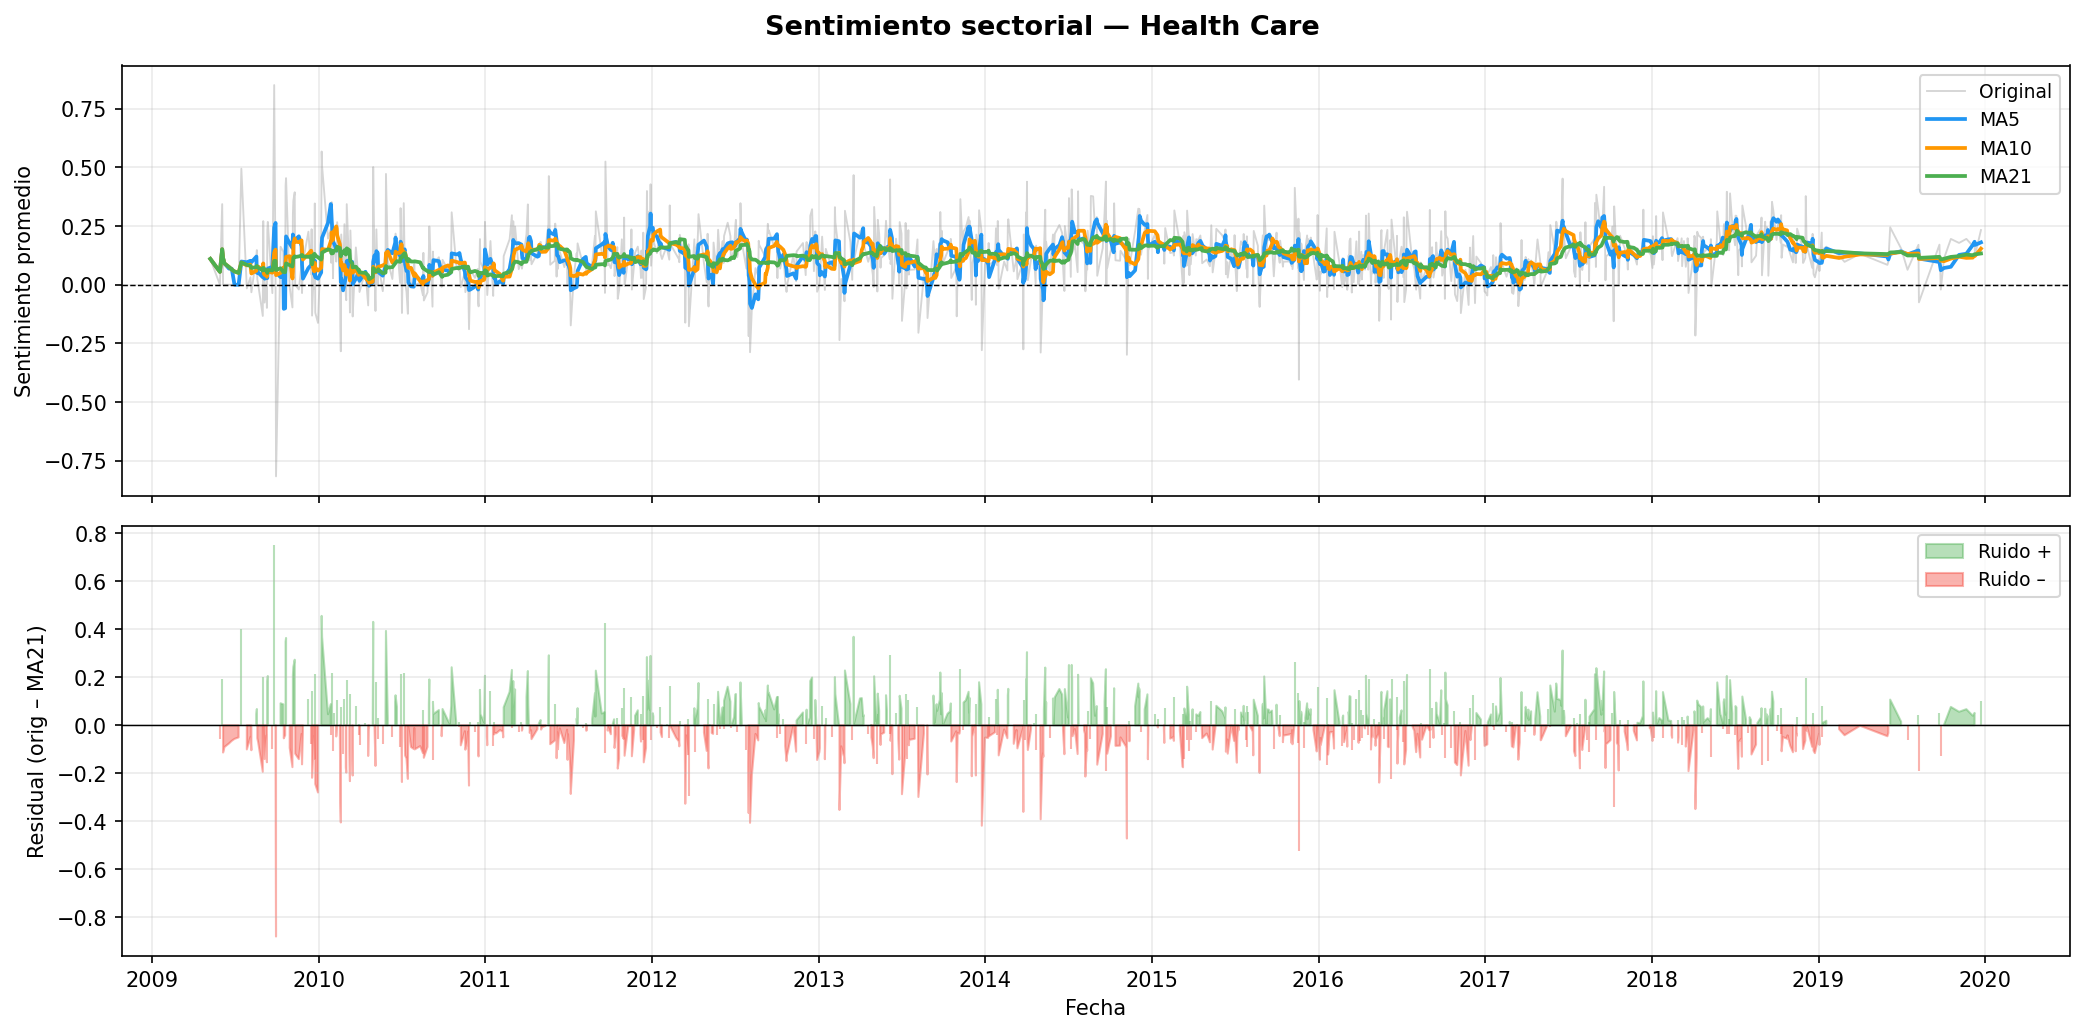
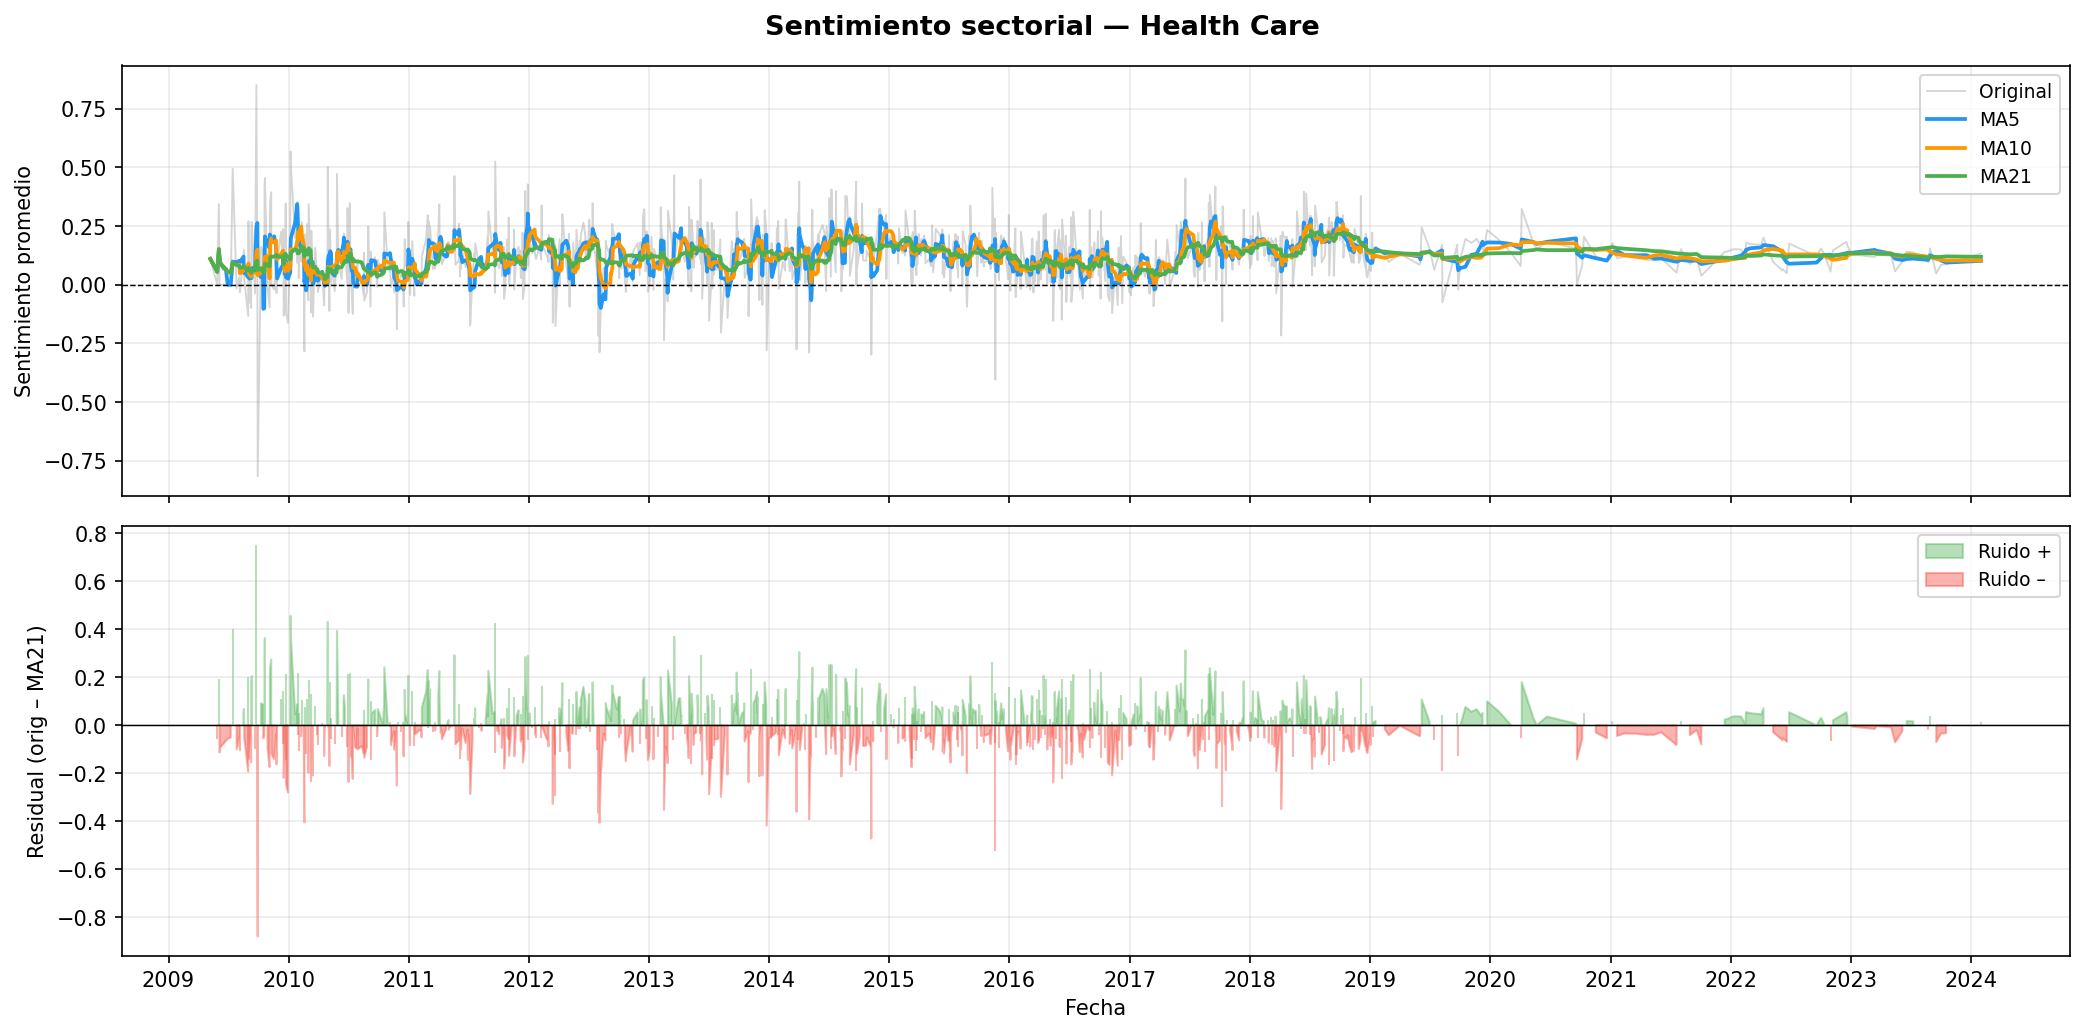
Last

diff --git a/src/eda/eda_sentiment_smoothing.py b/src/eda/eda_sentiment_smoothing.py
@@ -11,7 +11,7 @@ OUT_DIR = Path("outputs/eda/sentiment_smoothing")
 OUT_DIR.mkdir(parents=True, exist_ok=True)
 
 # Consistente con el resto del pipeline
-DATE_CUTOFF = "2019-12-31"
+DATE_CUTOFF = "2024-12-31"
 
 WINDOWS = [5, 10, 21]
 WINDOW_COLORS = {"5": "#2196F3", "10": "#FF9800", "21": "#4CAF50"}

diff --git a/src/prueba.py b/src/prueba.py
@@ -6,3 +6,5 @@ print(f"Rango: {df['date'].min()} -> {df['date'].max()}")
 df2 = pd.read_parquet("data/processed/clustering_dataset.parquet")
 print(f"Filas clustering: {len(df2):,}")
 print(f"Rango: {df2['date'].min()} -> {df2['date'].max()}")
+print(df2.shape[1])
+print(df2.columns.tolist())
